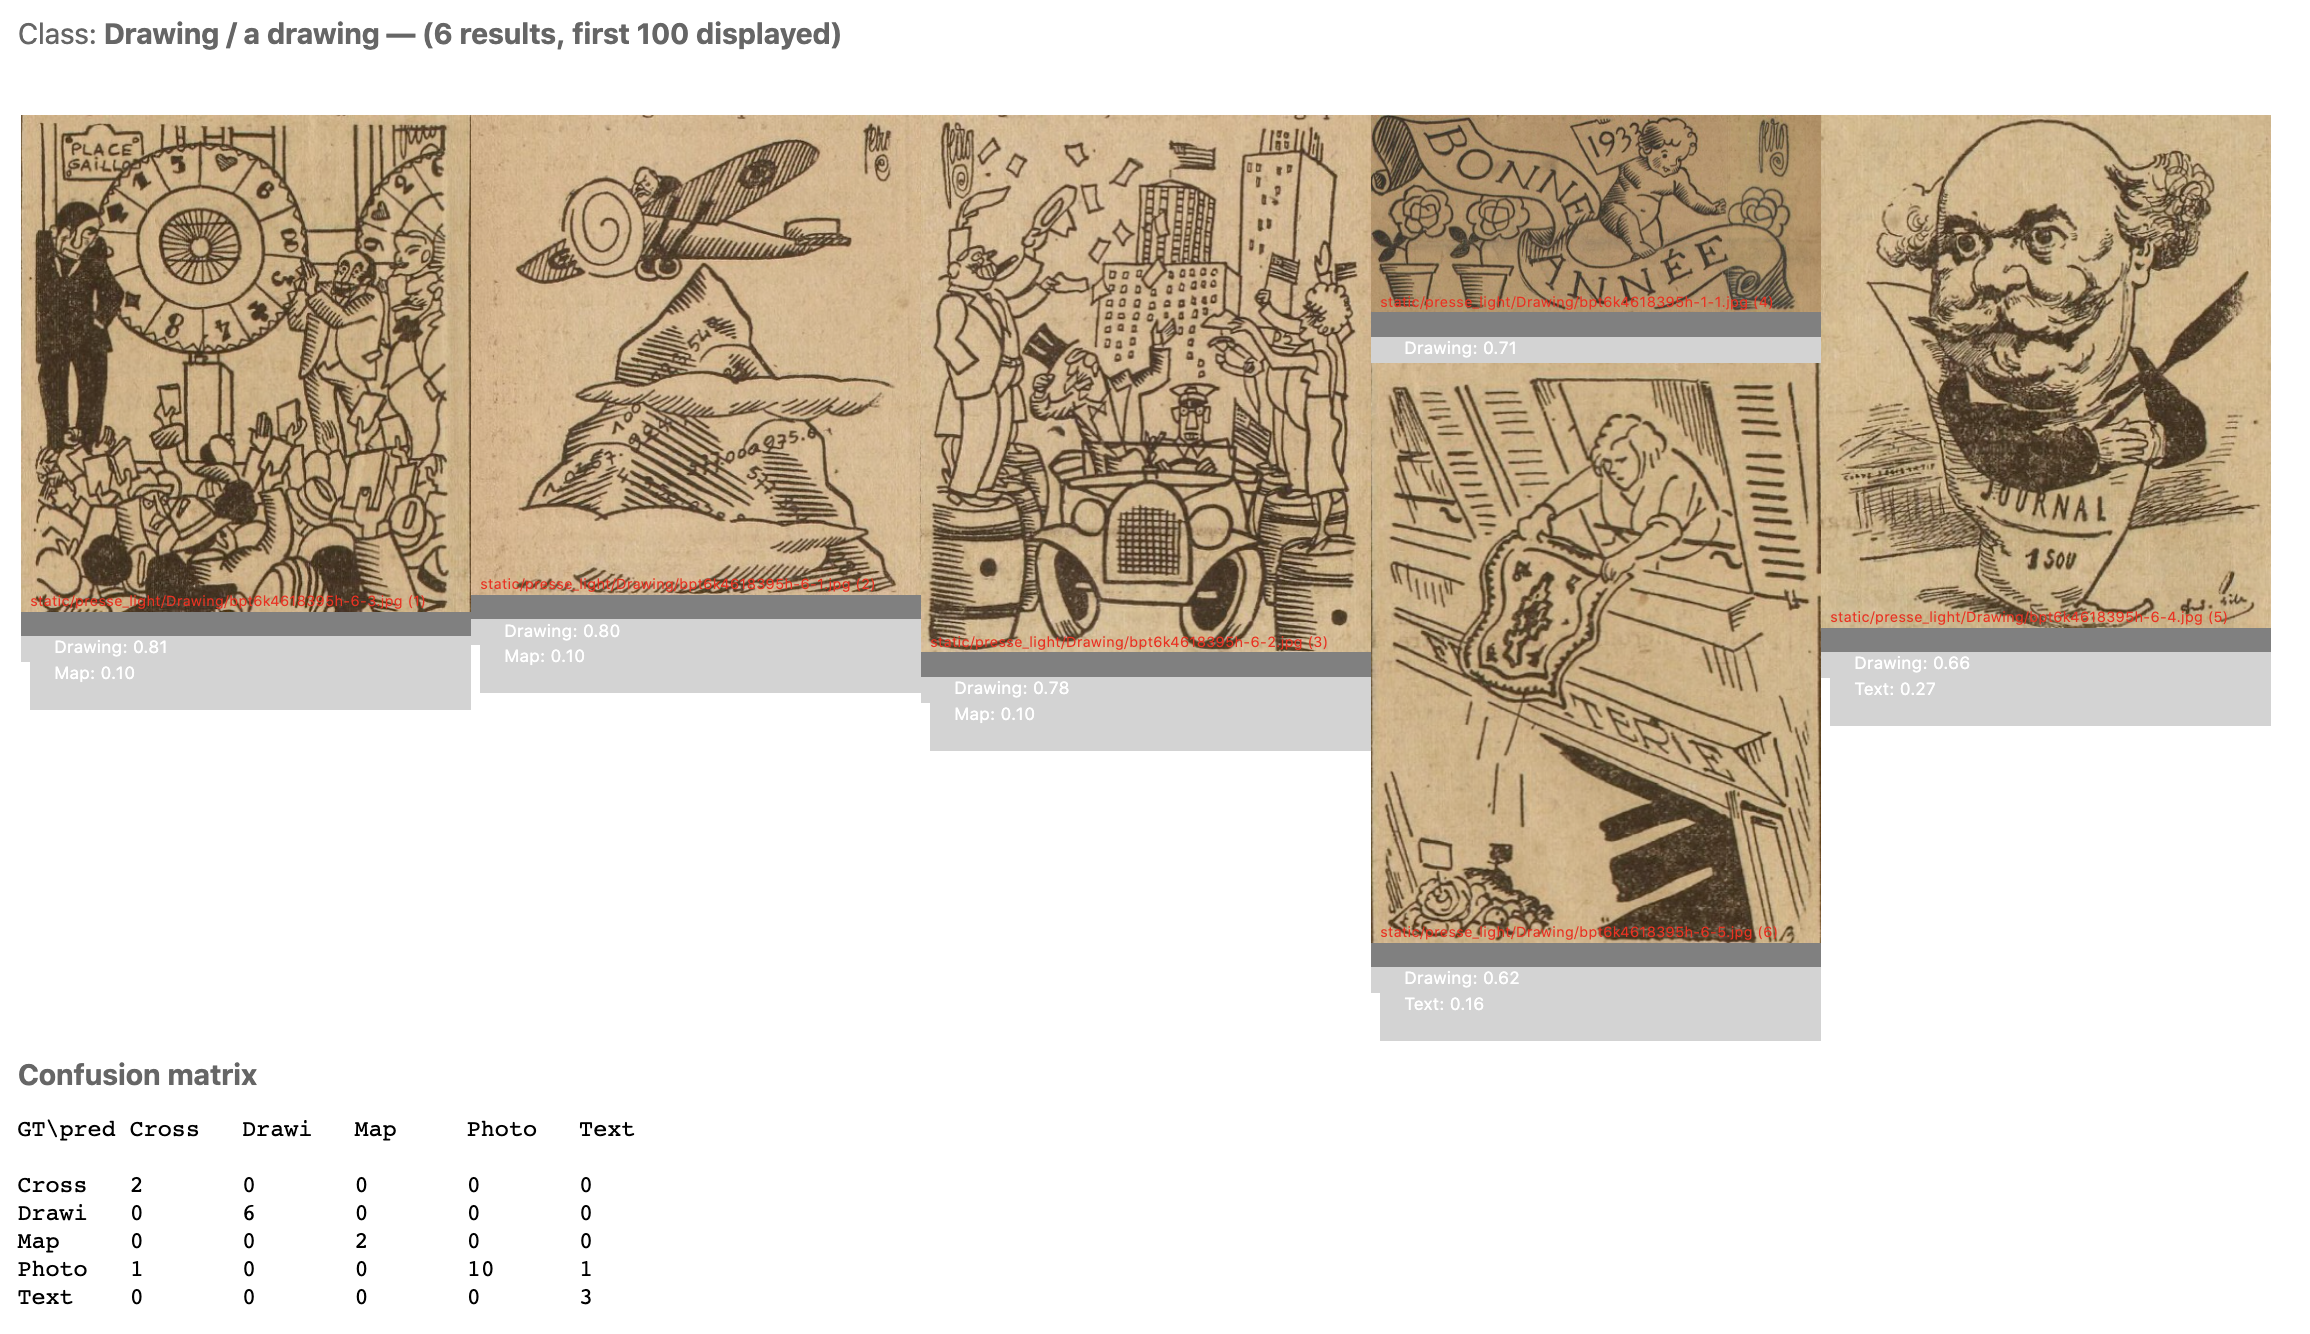
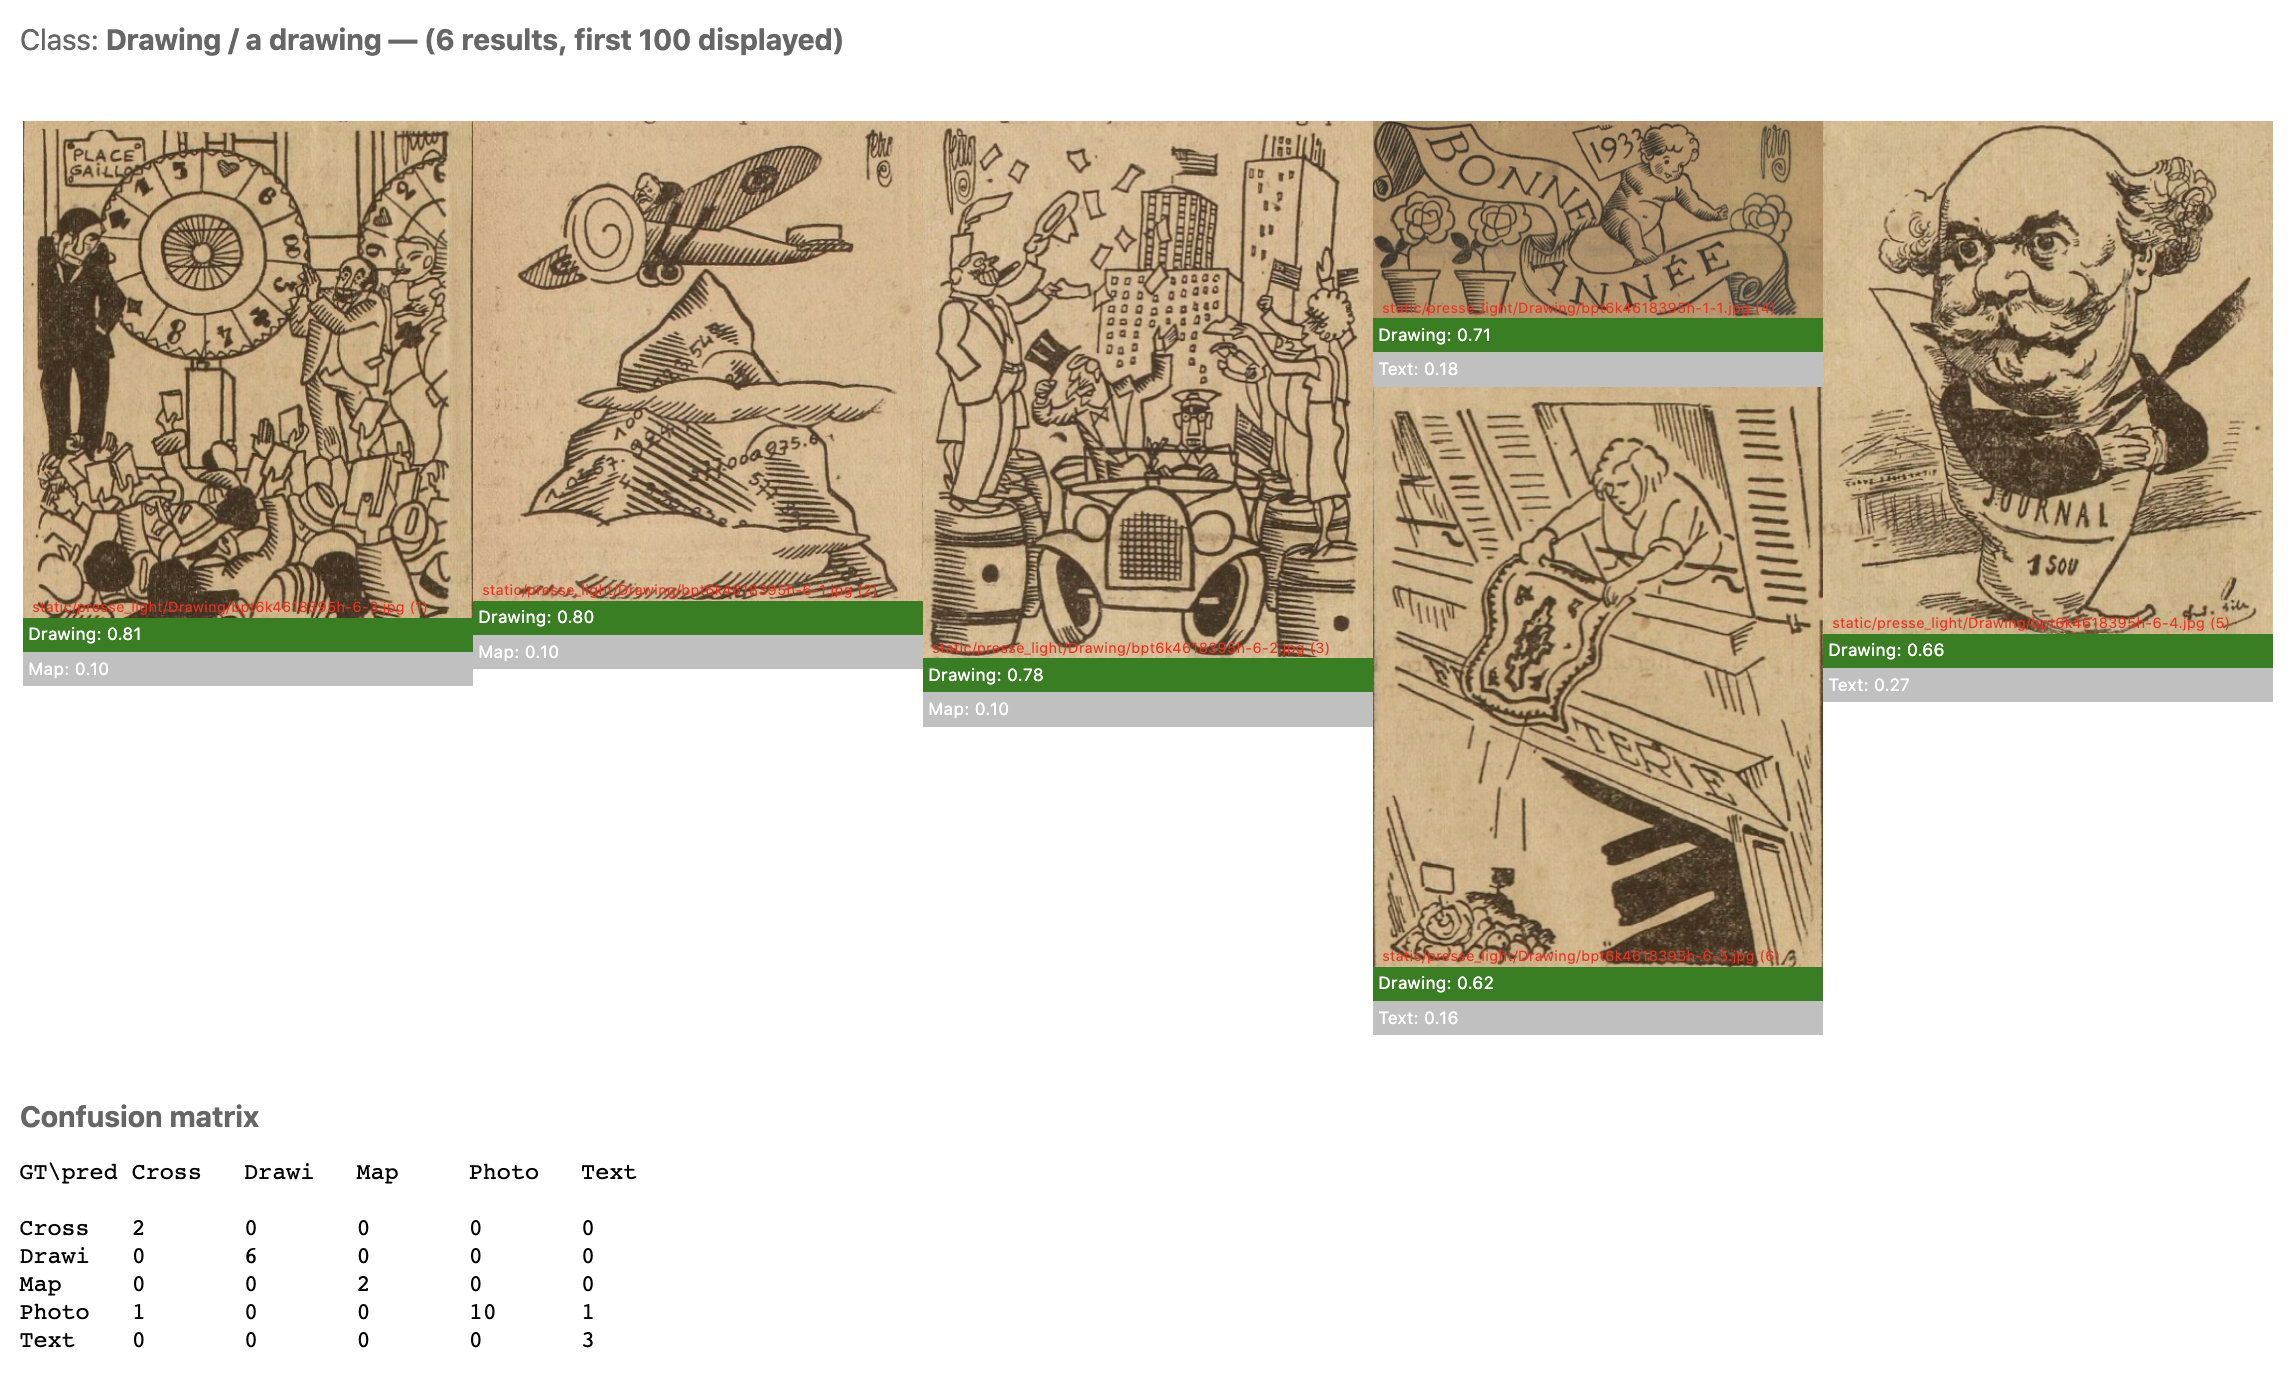
HTML fix

diff --git a/templates/grid_classif.html b/templates/grid_classif.html
@@ -19,7 +19,7 @@ img {
 p {
   padding: 10pt;
 }
-p.query {
+p.bold {
   font-weight: bold
 }
 p.thumb {
@@ -31,13 +31,11 @@ p.thumb {
   padding: 0;
   font-weight: normal
 }
-p.bar {
-  margin-left: 5px;
-}
 div.bar {
   z-index: 1;
-  margin-top: -1.75em;
-  height: 1.5em;
+  margin-top: -1.7em;
+  height: 2em;
+  line-height: 2em;
   color: white;
   background-color: gray;
   padding: 0;
@@ -46,24 +44,24 @@ div.bar {
 }
 </style>
 <body>
-    <p class="query"><span style="font-weight: normal">Class:</span> {{query}} / {{caption}} — {{comment}}</p>
+    <p class="bold"><span style="font-weight: normal">Class:</span> {{targetClass}} / {{caption}} — {{comment}}</p>
     <div id="grid" data-masonry='{ "itemSelector": ".grid-item", "columnWidth": 250 }'>
         {% for image in files %}
             <div class="grid-item">
               <img src="{{image}}" width="250" height="400" alt="">
               <p class="thumb">{{image|truncate(50)}} ({{loop.index}})</p>
-              <div class="bar"><p class="bar">{{targetClass}}: {{prob1[loop.index-1]}}</p></div>
-              <div class="bar" style="background-color: lightgray;margin-top:0em;"><p class="bar" style="background-color: lightgray">{{class2[loop.index-1]}}: {{prob2[loop.index-1]}}</p></div>
+              <div class="bar" style="background-color:{{fp[loop.index-1]}}">&nbsp;{{targetClass}}: {{prob1[loop.index-1]}}</div>
+              <div class="bar" style="background-color:silver; margin-top:0em;">&nbsp;{{class2[loop.index-1]}}: {{prob2[loop.index-1]}}</div>
             </div>
         {% endfor %}
     </div>
-    <p style="margin-bottom:-1em" class="query">Confusion matrix</p>
+    <p style="margin-bottom:-1em" class="bold">Confusion matrix</p>
     <object style="margin-left: 5px;width:800px;height:200px" data="{{confmatfile}}"> </object>
-    <p style="margin-bottom:-2em" class="query">Accuracy (mean): {{accuracy1}} %</p>
+    <p style="margin-bottom:-2em" class="bold">Accuracy (mean): {{accuracy1}} %</p>
     <p style="margin-bottom:-2em;margin-left:10.5em">{{labels}}</p>
-    <p class="query">Accuracy (per class): {{accuracy2}} %</p>
+    <p class="bold">Accuracy (per class): {{accuracy2}} %</p>
 
-    <p class="query"><a href="{{url_for('page')}}">Back to main menu</a></p>
+    <p class="bold"><a href="{{url_for('page')}}">Back to main menu</a></p>
 
     <script src="https://unpkg.com/imagesloaded@4/imagesloaded.pkgd.js"></script>
     <script >

diff --git a/main.py b/main.py
@@ -155,12 +155,20 @@ def page():
             name_image_top_prob = []
             prob = []
             tuples=[]
+            FP=[]
             for i, image in enumerate(image_paths):
-                if (top_labels[i][0]==label_index):
+                if (top_labels[i][0]==label_index): # filtering the images which match the query
                 #filtering the images on a probability threshold for the targeted class
                 #if (float(top_probs[i][0]) > minProb and top_labels[i][0]==label_index):
-                    tuples.append((image_paths[i],float(top_probs[i][0]),top_labels[i][1],float(top_probs[i][1])))
+                    # do we have false positives?
+                    if query in image_paths[i]:
+                        css="green"
+                    else:
+                        css="crimson"
+                    tuples.append((image_paths[i],float(top_probs[i][0]),top_labels[i][1],float(top_probs[i][1]),css))
+
             app.logger.info("  number of images validating the query: "+ str(len(tuples)))
+            app.logger.info(FP)
             # sorting the probs by decreasing values
             decreasing = sorted(tuples, key=lambda criteria: criteria[1], reverse=True)
             # build the arrays for the HTML rendition: maxResults first items
@@ -169,8 +177,10 @@ def page():
             #app.logger.info(name_image_top_prob)
             prob1 = [i[1] for i in decreasing[:maxResults]]
             string_prob1 = ["%.2f" % number for number in prob1]
+            FP=[i[4] for i in decreasing[:maxResults]]
             app.logger.info("####### top prob #1 for the targeted class ##########")
             app.logger.info(string_prob1)
+
             # the second best class
             prob2 = [i[3] for i in decreasing[:maxResults]]
             string_prob2 = ["%.2f" % number for number in prob2]
@@ -210,7 +220,7 @@ def page():
                 acc_class  = [i * 100.0 for i in acc]
                 acc_class = ["%.2f" % number for number in acc_class]
                 string_acc = ' %  /  '.join(acc_class)
-                return render_template("grid_classif.html", files=name_image_top_prob, labels= ' / '.join(labels), prob1=string_prob1, targetClass=query, class2=class2, prob2=string_prob2, query=query, caption=caption, confmatfile=conf_mat_file, accuracy1=accuracy, accuracy2=string_acc, comment="("+str(len(tuples))+ " results, first "+str(maxResults)+" displayed)")
+                return render_template("grid_classif.html", files=name_image_top_prob, labels= ' / '.join(labels), targetClass=query, caption=caption, prob1=string_prob1, fp=FP, class2=class2, prob2=string_prob2,  confmatfile=conf_mat_file, accuracy1=accuracy, accuracy2=string_acc, comment="("+str(len(tuples))+ " results, first "+str(maxResults)+" displayed)")
         else:
             ### Image retrieval use case ###
             #text_descriptions=["a photo of a blank page"]
